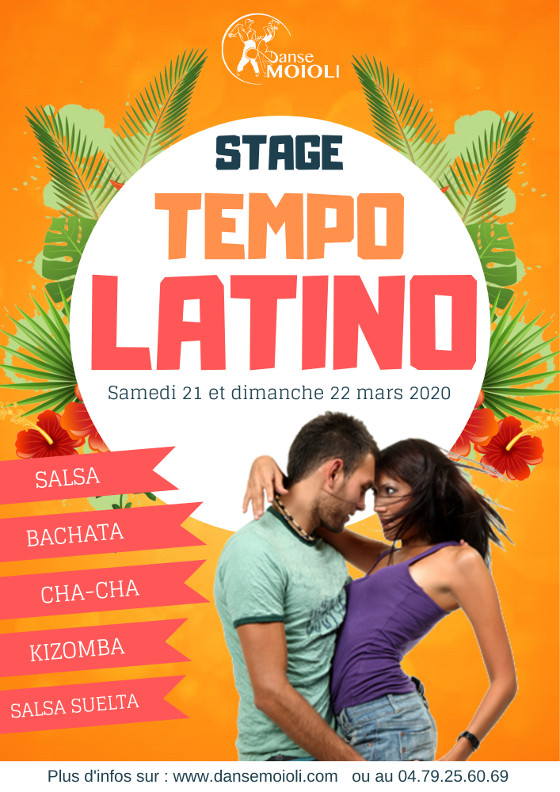
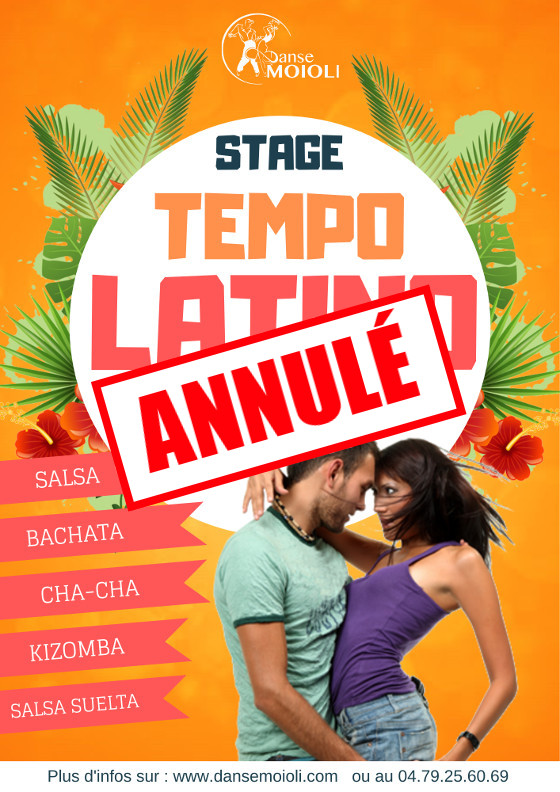
Stage annulé

Changed region(s): [[0.1518, 0.3636, 0.85, 0.6667]]

diff --git a/stage/tempo_latino.md b/stage/tempo_latino.md
@@ -2,7 +2,8 @@
 layout: stage
 
 title: Stage Tempo Latino
-dances: Salsa . Bachata . Cha-cha . Kizomba . Salsa suelta 
+dances: 
+  STAGE ANNULÉ pour cause de COVID-19 
 dates: Samedi 21 et dimanche 22 mars 2020
 date: 2020-03-21
 assets: stage_tempo_latino_2020
